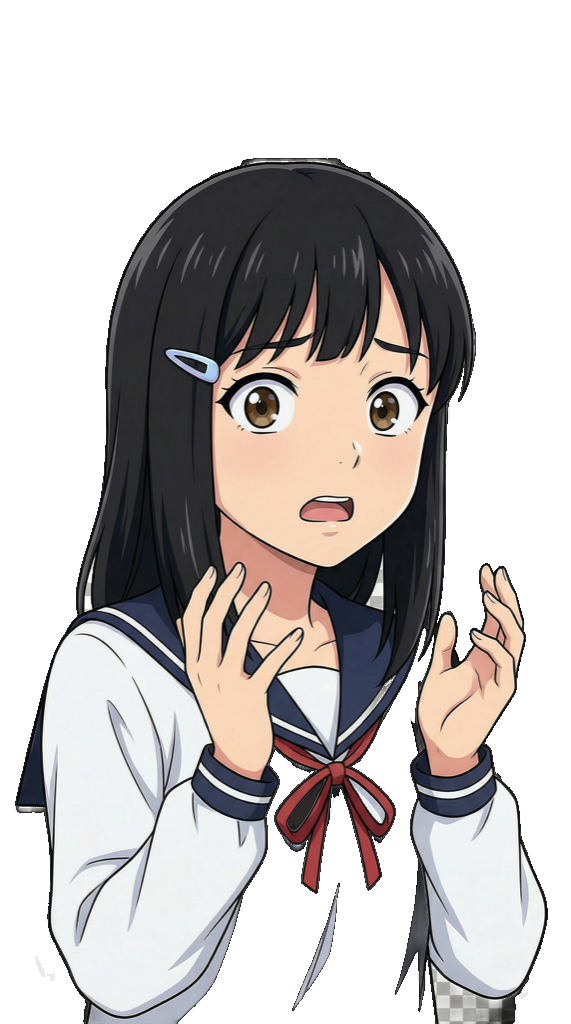
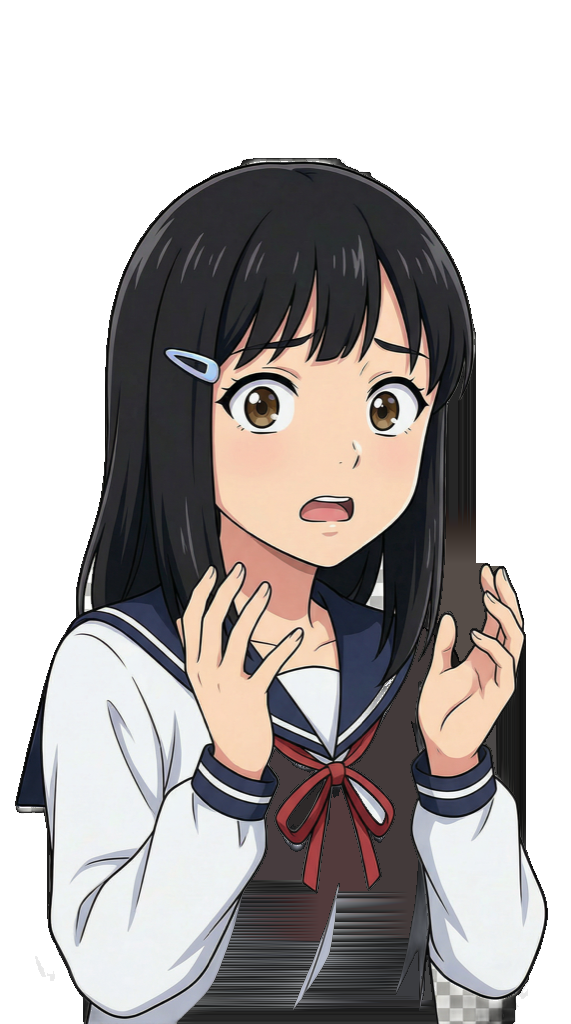
修正: キャラ画像の透明穴をスキャンライン方式で完全修復＋キャッシュバスターv12
teacher_surprise/student_b_panic含む全stage1画像の体内透明穴を0に、ブラウザキャッシュ回避のためv=11→v=12

diff --git a/index.html b/index.html
@@ -3286,7 +3286,7 @@ var NovelEngine = {
         var src = folder + line.speaker + '_' + line.expr + '.png';
         if (!self._imageCache[src]) {
           var img = new Image();
-          img.src = src + '?v=11';
+          img.src = src + '?v=12';
           self._imageCache[src] = img;
         }
       }
@@ -3392,7 +3392,7 @@ var NovelEngine = {
     var info = this.SPEAKERS[line.speaker];
     if (!info) return;
     var folder = (line.speaker === 'bousai') ? 'characters/shared/' : 'characters/stage' + (GAME.stageNum || 1) + '/';
-    var src = folder + line.speaker + '_' + (line.expr || 'normal') + '.png?v=11';
+    var src = folder + line.speaker + '_' + (line.expr || 'normal') + '.png?v=12';
 
     // ボウサイキャラのサイズ調整クラス
     this.charaLeft.classList.remove('chara-bousai');
